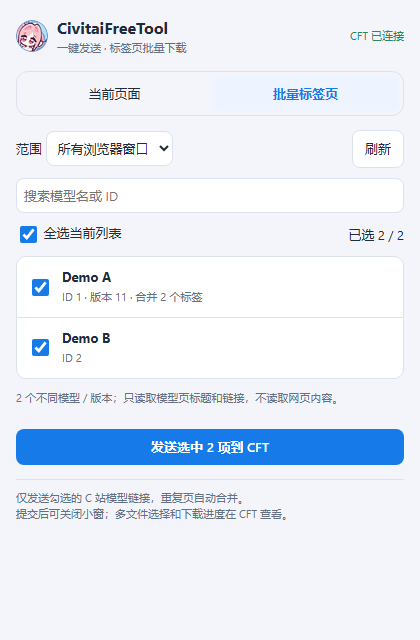
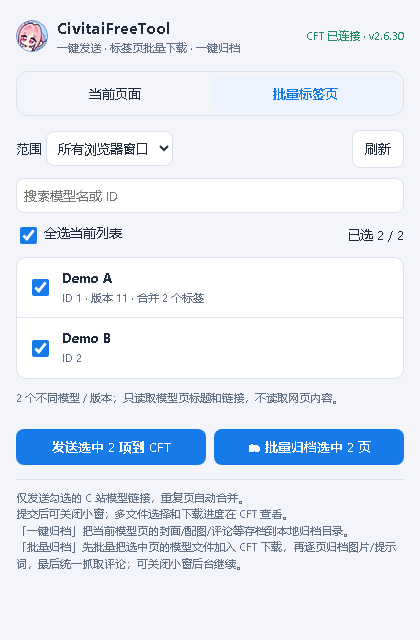
fix: 归档状态面板把"拿不到状态"渲染成"共 undefined 页"，看起来像用户归档出了 0 页
renderArchBatch 只把 total===0 当成"没有批次"，而 bg 在 offscreen 不可达 / 任务进行中 /
未知消息时回的是 {ok:false,msg} 或 {ok:true,started} 这类错误信封——total 是 undefined，
于是面板照常显示"共 undefined 页 · 完成 0 · 跳过(已归档) 0 · 失败 0"，把一次通信故障
说成了归档结果。改为按 Number(total) 是否有限判断，拿不到就收起面板，错误交给 feedback 行。
截图是修复后由 tests/test_extension_batch.cjs 的真浏览器用例重新生成的。

diff --git a/chrome-extension/popup.js b/chrome-extension/popup.js
@@ -222,13 +222,17 @@ function stopPolling() {
 const ARCH_PHASE_TEXT = { prepare: '阶段 1/3：解析模型并批量提交文件到 CFT 下载…', media: '阶段 2/3：逐页归档封面/配图/提示词…', comments: '阶段 3/3：统一抓取评论与评价…', done: '批量归档完成' };
 function renderArchBatch(s) {
   const panel = $('archBatchPanel');
-  if (!s || (!s.running && s.total === 0)) { panel.hidden = true; archRunning = !!(s && s.running); if (!archRunning) stopArchPolling(); return; }
+  // 拿不到状态、或拿到的是错误信封（{ok:false,msg} / {ok:true,started}）时，total 是 undefined：
+  // 那种情况就是"当前没有批次"，面板必须收起。以前只判 total===0，于是这些回复会被渲染成
+  // "共 undefined 页 · 完成 0 · 跳过(已归档) 0"，把一次通信故障显示成了用户的归档结果。
+  const total = Number(s && s.total);
+  if (!s || !Number.isFinite(total) || (!s.running && total === 0)) { panel.hidden = true; archRunning = !!(s && s.running); if (!archRunning) stopArchPolling(); return; }
   panel.hidden = false;
   $('archPhase').textContent = ARCH_PHASE_TEXT[s.phase] || s.phase || '';
   const done = (s.results || []).filter(r => ['done','skip','failed'].includes(r.status)).length;
   $('archProgress').textContent = s.running
-    ? `进度 ${done}/${s.total}` + (s.current ? ` · 当前：${s.current}` : '')
-    : `共 ${s.total} 页：完成 ${(s.results||[]).filter(r=>r.status==='done').length} · 跳过(已归档) ${s.skipped||0} · 失败 ${s.failed||0}`;
+    ? `进度 ${done}/${total}` + (s.current ? ` · 当前：${s.current}` : '')
+    : `共 ${total} 页：完成 ${(s.results||[]).filter(r=>r.status==='done').length} · 跳过(已归档) ${s.skipped||0} · 失败 ${s.failed||0}`;
   const auto = (s.results || []).filter(r => r.autoChosenFile);
   $('archCounts').textContent = auto.length ? `多文件版本已自动选择主文件 ${auto.length} 页（其他精度可在 CFT 中单独下载）` : '';
   $('archAuto').replaceChildren();
